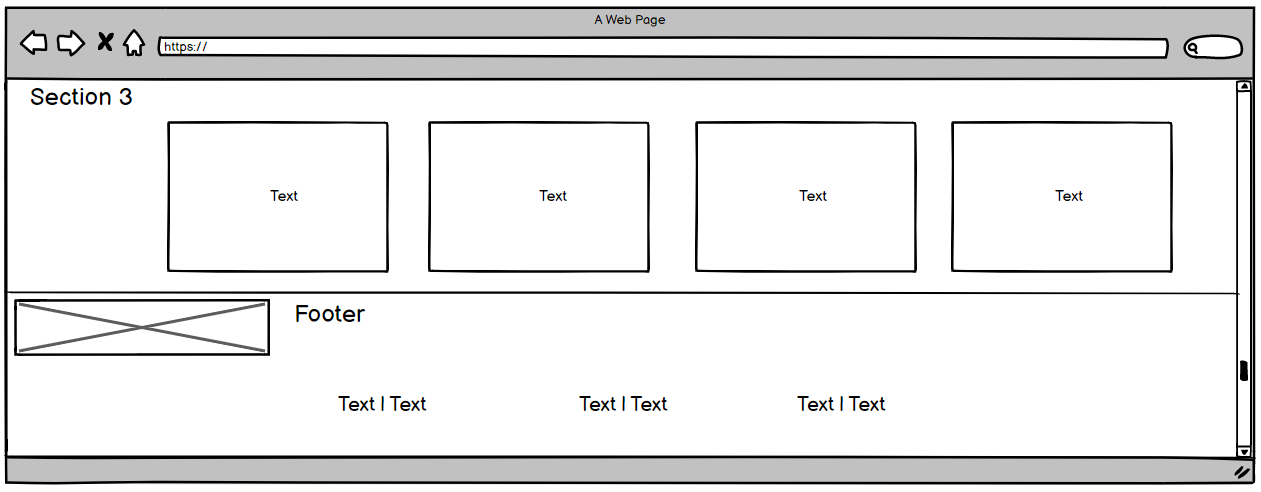
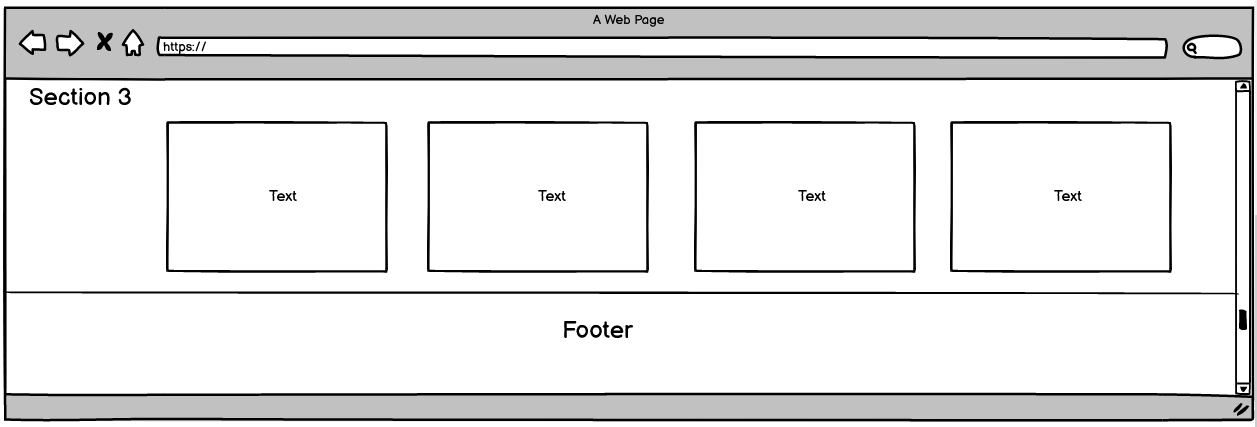
Desktop html done

diff --git a/Code/DGT.html b/Code/DGT.html
@@ -4,7 +4,7 @@
         <meta charset="utf-8">
         <meta name="viewport" content="initial-scale=1, maximum-scale=1, user-scalable=no, width=device-width">
         <title>Blank page Bootstrap 5</title>
-         <link href="https://cdn.jsdelivr.net/npm/bootstrap@5.2.2/dist/css/bootstrap.min.css" rel="stylesheet" integrity="sha384-Zenh87qX5JnK2Jl0vWa8Ck2rdkQ2Bzep5IDxbcnCeuOxjzrPF/et3URy9Bv1WTRi" crossorigin="anonymous">
+        <link href="https://cdn.jsdelivr.net/npm/bootstrap@5.2.2/dist/css/bootstrap.min.css" rel="stylesheet" integrity="sha384-Zenh87qX5JnK2Jl0vWa8Ck2rdkQ2Bzep5IDxbcnCeuOxjzrPF/et3URy9Bv1WTRi" crossorigin="anonymous">
         <script src="https://cdn.jsdelivr.net/npm/@popperjs/core@2.11.6/dist/umd/popper.min.js" integrity="sha384-oBqDVmMz9ATKxIep9tiCxS/Z9fNfEXiDAYTujMAeBAsjFuCZSmKbSSUnQlmh/jp3" crossorigin="anonymous"></script>
 		<script src="https://cdn.jsdelivr.net/npm/bootstrap@5.2.2/dist/js/bootstrap.min.js" integrity="sha384-IDwe1+LCz02ROU9k972gdyvl+AESN10+x7tBKgc9I5HFtuNz0wWnPclzo6p9vxnk" crossorigin="anonymous"></script>
         <link rel="stylesheet" href="https://cdn.jsdelivr.net/npm/bootstrap-icons@1.9.1/font/bootstrap-icons.css">
@@ -60,7 +60,7 @@
             <div class="row bg-logo-sede">
                 <div class="col-3"></div>
                 <div class="col-2">
-                    <img class="mt-4" src="./../Images/logo-sede.PNG" alt="">
+                    <img class="mt-2" src="./../Images/logo-sede.PNG" alt="">
                 </div>
                 <div class="col-5">
                     <h3 class="mt-4" style="font-weight: bold;">GESTIONA TUS TRÁMITES EN LA SEDE ELECTRÓNICA</h3>
@@ -71,7 +71,7 @@
                 <div class="col-2"></div>
             </div>
         </div>
-
+        
         <!--Section 2-->
         <div class="container-fluid bg-trafico">
             <div class="row">
@@ -179,6 +179,31 @@
 
 
         <!--Footer-->
+        <div class="container-fluid" style="background-color: #0057a6;">
+            <div class="row">
+                <div class="col-3">
+                    <img class="mt-3 mb-4" style="width: 400px;" src="./../Images/logo-gobEspanya.PNG" alt="">
+                </div>
+                <div class="col-1">
+                    <h5 class="mt-4" style="font-weight: bold; font-size: 20px; color: #fcc707;">Contáctanos</h5>
+                </div>
+                <div class="col-2">
+                    <p class="mt-4" style="font-weight: bold; font-size: 16px; color: white">060 <br> Teléfono de atención al ciutadano</p>
+                </div>
+                <div class="col-2">
+                    <p class="mt-4" style="font-weight: bold; font-size: 16px; color: white">011 <br> Teléfono de información de carreteras</p>
+                </div>
+                <div class="col-3">
+                    <p class="mt-4" style="font-weight: bold; font-size: 16px; color: white">987 010 559 <br> Centro de tratamiento de denuncias automatizadas</p>
+                </div>
+            </div>
+        </div>
 
+
+        <!--Pasos:
+            - Hacer las diferentes vistas en html
+            - Arreglar el html (clases, etc.)
+            - Hacer los mockups de las diferentes vistas
+        -->
     </body>
 </html>
